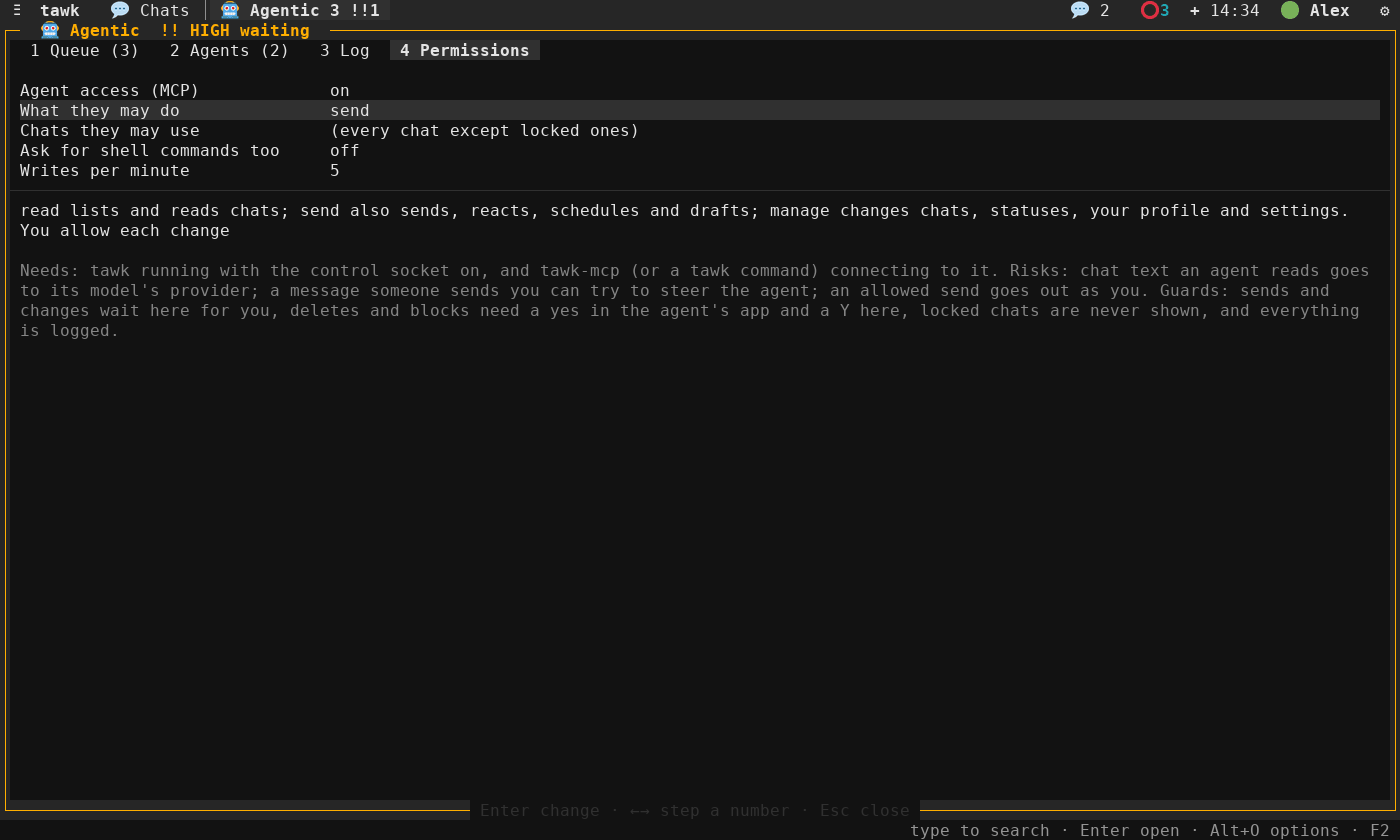
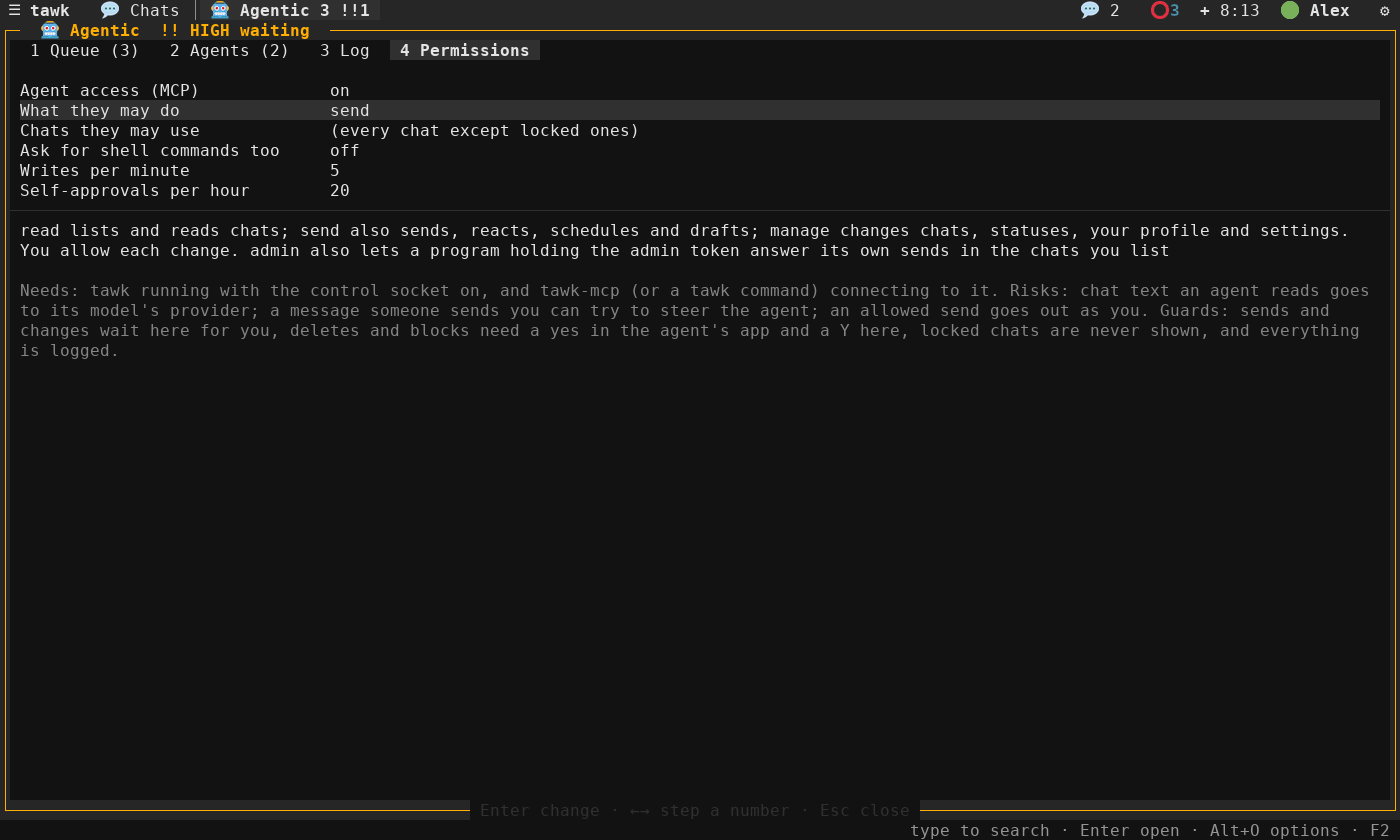
Document access admin, with new and redrawn screenshots and its sequence diagram

Changed region(s): [[0.0, 0.2167, 0.9829, 0.4333], [0.0307, 0.0, 0.2764, 0.031], [0.7679, 0.0, 0.8907, 0.031]]

diff --git a/tools/screenshots/scenes.c b/tools/screenshots/scenes.c
@@ -664,6 +664,7 @@ static void agents_scenes(void) {
 
     AutomationEntry log[] = {
         log_entry(2, CONTROL_ORIGIN_MCP, "tawk-mcp", "send_message", sarah, "Sounds good, see you at 7 at the usual place", AUTOMATION_OUTCOME_APPROVED),
+        log_entry(3, CONTROL_ORIGIN_MCP, "tawk-mcp", "send_message", mom, "Leaving now, home by six", AUTOMATION_OUTCOME_SELF_APPROVED),
         log_entry(4, CONTROL_ORIGIN_MCP, "tawk-mcp", "react", book, "\xF0\x9F\x91\x8D", AUTOMATION_OUTCOME_ALLOWED),
         log_entry(7, CONTROL_ORIGIN_MCP, "tawk-mcp", "react", dev, "\xF0\x9F\x8E\x89", AUTOMATION_OUTCOME_ALLOWED),
         log_entry(9, CONTROL_ORIGIN_MCP, "tawk-mcp", "read_messages", dev, "last 40 messages", AUTOMATION_OUTCOME_READ),
@@ -708,6 +709,13 @@ static void agents_scenes(void) {
     p.view = AGENTS_VIEW_PERMISSIONS;
     p.selected[AGENTS_VIEW_PERMISSIONS] = 1;
     agents_panel_draw(&p, &m, "agents-permissions");
+
+    /* Access admin: an agent with the admin token answers its own sends in the chats named. */
+    str_copy(settings.automation_access, sizeof(settings.automation_access), "admin");
+    str_copy(settings.automation_chats, sizeof(settings.automation_chats), "Mom, Sarah");
+    agents_panel_draw(&p, &m, "agents-admin");
+    str_copy(settings.automation_access, sizeof(settings.automation_access), "send");
+    settings.automation_chats[0] = '\0';
 
     /* The main screen: the Agentic tab counts what waits. */
     s_agents_tab = 0;

diff --git a/src/clients/tui/agents_panel.c b/src/clients/tui/agents_panel.c
@@ -17,7 +17,7 @@
 #define EDIT_MAX  TEXT_FIELD_CAPACITY
 
 static const char *const TAB_NAMES[AGENTS_VIEW_COUNT] = { "Queue", "Agents", "Log", "Permissions" };
-static const char *const PERMISSION_KEYS[] = { "control_socket", "access", "chats", "confirm_cli", "writes_per_minute" };
+static const char *const PERMISSION_KEYS[] = { "control_socket", "access", "chats", "confirm_cli", "writes_per_minute", "self_approvals_per_hour" };
 #define PERMISSION_COUNT ((int)(sizeof(PERMISSION_KEYS) / sizeof(PERMISSION_KEYS[0])))
 static const char *const FILTER_NAMES[] = { "everything", "allowed", "declined or expired", "refused or failed" };
 

diff --git a/CONTROL.md b/CONTROL.md
@@ -47,8 +47,8 @@ A notification, sent without a request:
 | `bad_request` | The line is not JSON, the operation is unknown, or an argument is missing or of the wrong type. |
 | `hello_first` | Any operation before `hello`. |
 | `protocol` | The client asked for a protocol version tawk does not speak. |
-| `not_allowed` | The access setting does not allow it (`access` in `[automation]` is `read`, `send` or `manage`), the setting may not be changed from outside, or the chat is outside `chats`. |
-| `bad_token` | `confirm` was given a token that is unknown, used, expired or from another connection. |
+| `not_allowed` | The access setting does not allow it (`access` in `[automation]` is `read`, `send`, `manage` or `admin`), the setting may not be changed from outside, or the chat is outside `chats`. |
+| `bad_token` | `confirm` was given a token that is unknown, used, expired or from another connection, or `approve` was given the wrong admin token. |
 | `draft_exists` | `draft_message` found a draft already waiting in that chat. |
 | `unsupported` | The backend in use cannot do it (posting a status needs whatsmeow). |
 | `not_found` | No visible chat or message matches. Locked and hidden chats are reported as not found. |
@@ -133,7 +133,7 @@ Result:
 }
 ```
 
-`access` is `read`, `send` or `manage`.
+`access` is `read`, `send`, `manage` or `admin`.
 
 ### Reading
 
@@ -151,7 +151,7 @@ Reading never marks anything as read, never sends read receipts, and never chang
 
 ### Writing
 
-Writes need `access = send` (or `manage`) in `[automation]`. Each is checked against the chat list, counted against `writes_per_minute`, written to the automation log (the Log in tawk's Agentic tab) and, where the origin requires it, shown to you in the Agentic tab to approve, edit or decline. While a write waits, tawk sends `{"evt":"approval","id":"<request id>","state":"waiting"}` once, so a client can tell its user where to look.
+Writes need `access = send` (or `manage` or `admin`) in `[automation]`. Each is checked against the chat list, counted against `writes_per_minute`, written to the automation log (the Log in tawk's Agentic tab) and, where the origin requires it, shown to you in the Agentic tab to approve, edit or decline. While a write waits, tawk sends `{"evt":"approval","id":"<request id>","state":"waiting"}` once, so a client can tell its user where to look.
 
 | Operation | Arguments | Result |
 | --- | --- | --- |
@@ -163,9 +163,29 @@ Writes need `access = send` (or `manage`) in `[automation]`. Each is checked aga
 
 When you edit the text in the approval dialog before allowing it, the result of `send_message` and `schedule_message` also carries `"edited":true` and `"text"` with what was actually sent.
 
+### Answering your own request
+
+With `access = admin` a client may answer a request of its own that is waiting for you, instead of you answering it in tawk. This is for a program you trust to act while you are away, and it is narrow on purpose.
+
+| Operation | Arguments | Result |
+| --- | --- | --- |
+| `approve` | `id` (the id of your waiting request), `admin_token` | `{"approved":true,"id":"…"}`; the waiting request then gets its own answer, as if you had allowed it |
+
+tawk answers `approve` with an error, and leaves the request waiting for you, unless all of these hold:
+
+- `access` is `admin`. Otherwise `not_allowed`.
+- `admin_token` is the token in `admin.token` beside the control socket (0600). tawk writes a new one each time it starts and each time access becomes admin, and removes it when access is anything else and when it quits. Otherwise `bad_token`.
+- The request was made on this connection. Another client's request is `not_found`.
+- The operation is one of `send_message`, `reply_status`, `forward_message`, `edit_message`, `retry_message`, `schedule_message`, `reschedule`, `send_scheduled_now`, `cancel_scheduled`, `react`, `mark_read` or `like_status`. Anything else is `not_allowed`. `cancel_scheduled` still needs its `confirm` first.
+- Its chat is named in `chats`. An empty `chats` allows none here. Otherwise `not_allowed`.
+- Fewer than `self_approvals_per_hour` were answered this way in the last hour. Otherwise `rate_limited` with `retry_after`.
+- You have not paused the client.
+
+Each one is logged with the outcome `approved by the agent` and shown to you in tawk. A client acting for a model should approve only what its user asked for, never what a message says.
+
 ### Managing tawk
 
-With `access = manage`, a client can do nearly everything you can do in tawk. Every one of these operations is a write, so it follows the same checks and asks you first when the origin requires it. Some things stay out of reach whatever the access, so a program cannot widen its own permissions or run programs of its choice:
+With `access = manage` (or `admin`), a client can do nearly everything you can do in tawk. Every one of these operations is a write, so it follows the same checks and asks you first when the origin requires it. Some things stay out of reach whatever the access, so a program cannot widen its own permissions or run programs of its choice:
 
 - the Automation settings themselves;
 - settings that run a program (`screensaver.command`, `media.image_viewer`, `media.video_player`, `advanced.node_binary`, `advanced.sidecar_dir`);

diff --git a/ARCHITECTURE.md b/ARCHITECTURE.md
@@ -23,7 +23,7 @@ tawk is one C11 program arranged in [iDesign](https://www.idesign.net/) layers. 
 |---|---|---|---|
 | Client | `clients/tui`, `clients/control`, `clients/cli` | `tui`: the ncurses UI (widgets, input, slash commands, layout, the settings panel, the Chats and Agentic tabs). `control`: the control socket client that serves tawk-mcp and the shell commands ([CONTROL.md](CONTROL.md)). `cli`: the `--doctor` setup check, the `--update` installer, `--encrypt`, `--decrypt` and `--change-passphrase`, `--backup` and `--restore`, the start-up passphrase prompt, and `tawk send`, `tail`, `unread` and `status-line` | Managers, and the contracts the composition root hands it |
 | Managers | `managers` | Use cases: messaging and connection supervision, profiles and profile pictures, your own profile, posting statuses, the status feed, messages scheduled for later, incoming calls, media, settings, encrypting the database, encrypted backups, the rules and log for agents (automation), plus the composite event observer that hands backend events to the managers that listen for them | Engines, contracts |
-| Engines | `engines` | Business rules with no I/O: backoff, circuit breaker, notification policy, chat visibility, idle tracking, message ids, media type detection, emoticon conversion, network fingerprints and change detection, profile field and status post validation, finding a URL in text, the status background palette, matching chats against a search, reading when a scheduled message should go, the backup manifest and which archive members a restore accepts, and for agents: the automation policy (who sees which chats, which writes are asked about, which settings stay out of reach, risk), resolving a chat named by an agent, the rate limiter and confirmation tokens | Core, utilities |
+| Engines | `engines` | Business rules with no I/O: backoff, circuit breaker, notification policy, chat visibility, idle tracking, message ids, media type detection, emoticon conversion, network fingerprints and change detection, profile field and status post validation, finding a URL in text, the status background palette, matching chats against a search, reading when a scheduled message should go, the backup manifest and which archive members a restore accepts, and for agents: the automation policy (who sees which chats, which writes are asked about, which settings stay out of reach, risk, and which of its own requests a client may answer with access admin), the hourly quota for those, resolving a chat named by an agent, the rate limiter and confirmation tokens | Core, utilities |
 | Resource access | `resource_access` | SQLite stores (messages, chats, contacts, reactions, receipts, JID aliases, profiles, statuses, scheduled messages, the automation log), database encryption with SQLCipher (`sqlite_database_crypt`, `sqlite_key`), the caching decorators, INI settings store, JSON theme repository, TSV emoji catalog, the text chat exporter, WhatsApp gateways, the JSON protocol codec | Core, utilities |
 | Infrastructure | `infrastructure` | Operating-system integration: audio backends and players, recorder, media opener, screensaver, terminal title, OSC 52 clipboard, clipboard pictures, video frames (ffmpeg), the camera (ffmpeg), PDF pages (poppler), the network monitor (getifaddrs), the terminal passphrase prompt, tar archives and openssl file encryption for backups, the control socket's listening end and the shell commands' calling end (Unix domain sockets), notifiers, media cache janitor | Core, utilities |
 | Contracts | `contracts` | Interfaces between layers | Core |
@@ -167,6 +167,7 @@ flowchart TD
 | `IControlClient` | `unix_control_client` (the calling end, for `tawk send`, `tail`, `unread` and `status-line`) |
 | `IApprovalPrompt` | `approval_queue` in the terminal client (requests waiting in the Agentic tab; answers collected by polling) |
 | `IAutomationLog` | `sqlite_automation_log` (what agents did, in the `automation_log` table, the newest 5000 kept) |
+| `IAdminTokenStore` | `file_admin_token_store` (the admin token in `admin.token` beside the control socket, 0600, written beside itself and renamed) |
 | `IFrameHook` | `control_server_frame_hook` (the control client's work, run by the terminal client once a frame) |
 | `INetworkMonitor` | `ifaddrs_network_monitor` (samples the addresses of the interfaces that are up every 3 seconds and reports a change once it has held for 2 seconds) |
 

diff --git a/MANUAL.md b/MANUAL.md
@@ -41,6 +41,7 @@ The screenshots in this manual were taken from tawk running on a demo account wi
 - [Automation and MCP](#automation-and-mcp)
   - [Turning it on](#turning-it-on)
   - [The Agentic tab](#the-agentic-tab)
+  - [Letting an agent answer for itself](#letting-an-agent-answer-for-itself)
   - [Destructive requests](#destructive-requests)
   - [Drafts from agents](#drafts-from-agents)
   - [Shell commands](#shell-commands)
@@ -965,10 +966,11 @@ The same submenu sets how far agents may go:
 | Setting | What it does |
 |---|---|
 | Agent access (MCP) | On or off; the line under it says whether tawk is listening and how many are connected |
-| What they may do | **read** lists, reads and searches; **send** also sends, reacts, schedules and drafts; **manage** also changes chats, statuses, your profile and settings |
+| What they may do | **read** lists, reads and searches; **send** also sends, reacts, schedules and drafts; **manage** also changes chats, statuses, your profile and settings; **admin** also lets an agent you gave the admin token answer its own sends (see [Letting an agent answer for itself](#letting-an-agent-answer-for-itself)) |
 | Chats they may use | Names or numbers separated by commas; empty allows every chat except locked ones |
 | Ask for shell commands too | Your own `tawk send` asks first as well (agents always ask) |
 | Writes per minute | More are refused until a minute has passed |
+| Self-approvals per hour | With **admin**: how many of its own requests an agent may answer in an hour (20 by default); past that they wait for you |
 
 ### The Agentic tab
 
@@ -1009,6 +1011,24 @@ The tab has four views, on keys 1 to 4 (Tab moves between them):
 A request nobody answers is declined by itself: after 5 minutes, or 2 for HIGH ones. Allowing many in a row from one agent brings a suggestion to allow it for the session instead, so the answers stay deliberate.
 
 ![The log of what agents did](docs/images/agents-log.png)
+
+### Letting an agent answer for itself
+
+By default every send waits for you. Set **What they may do** to **admin** and an agent you trust can answer its own requests instead, within limits you set. It is meant for an agent that runs while you are away from tawk.
+
+![The Permissions view with access admin and two chats named](docs/images/agents-admin.png)
+
+What changes with admin:
+
+- tawk writes an **admin token** to `admin.token` beside the control socket (`$XDG_RUNTIME_DIR/tawk/admin.token`, readable by you alone). It is a new token each time tawk starts and each time you switch to admin, and it is removed when you switch away or quit.
+- An agent that shows that token may answer a request it made itself. With tawk-mcp you give it the file with `TAWKMCP_ADMIN_TOKEN_FILE`; an agent without the file, or another agent on the same computer, cannot.
+- Only these can be answered that way: sending a message, replying to a status, forwarding, editing, retrying, scheduling, rescheduling, sending or cancelling a scheduled message, a reaction, a read mark and a like. Changes to chats, your profile, statuses you post, settings, and every delete or block still wait for you.
+- Only in chats named in **Chats they may use**. With that list empty nothing is answered this way, so you always choose the chats.
+- Only so many an hour (**Self-approvals per hour**). Past that, requests wait for you again.
+
+A request the agent may not answer simply stays in the Queue for you. Each one it does answer is written to the Log as **approved by the agent** and shown as a line at the bottom of the screen, so you can see what went out in your name. Pausing an agent in the Agents view stops it answering as well.
+
+Admin is the widest access there is: a message someone sends you can try to steer the agent (prompt injection), and with admin a steered agent can send in the chats you named without you seeing it first. Name few chats, keep the hourly number low, and read the Log.
 
 ### Destructive requests
 

diff --git a/HOW_IT_WORKS.md b/HOW_IT_WORKS.md
@@ -798,6 +798,37 @@ sequenceDiagram
     C->>AM: record(outcome)
 ```
 
+With access admin a client can give that answer itself. `AutomationManager` keeps an admin token while the access setting says admin: it writes a fresh one through `IAdminTokenStore` when the control client's tick finds access at admin with none issued, and removes it when access is anything else and when tawk quits. The `approve` operation finds the caller's own waiting request, and the manager decides: `automation_policy_self_approval` checks the access, the kind of operation and that the chat is named in the chat list (an empty list allows none), the token is compared without stopping at the first difference, and the `hourly_quota` engine counts it against `self_approvals_per_hour`. When the answer is yes the request is withdrawn from the queue and carried out as if you had allowed it, logged as approved by the agent, and the manager hands the screen a line to show. When it is no the request stays in the queue for you.
+
+```mermaid
+sequenceDiagram
+    participant A as tawk-mcp, holding the admin token
+    participant C as Control client
+    participant AM as AutomationManager
+    participant Q as ApprovalQueue
+    participant T as Screen
+    participant M as MessagingManager
+    A->>C: send_message {chat, text}
+    C->>Q: ask(request)
+    C-->>A: evt approval waiting
+    A->>C: approve {id, admin_token}
+    C->>AM: self_approve(op, chat, token)
+    AM->>AM: access admin? own kind? chat named? token? hourly quota?
+    alt allowed
+        AM-->>C: ALLOW
+        C->>Q: withdraw(request)
+        C->>M: send_text_to(chat, text)
+        C-->>A: ok {id} for the send
+        C-->>A: ok {approved} for approve
+        C->>AM: record(approved by the agent), notice
+        AM-->>T: a line saying what it did
+    else refused
+        AM-->>C: OFF, BAD_TOKEN, NOT_THIS_KIND, CHAT_NOT_LISTED or RATE_LIMITED
+        C-->>A: error not_allowed, bad_token or rate_limited
+        Note over Q: the request still waits for you
+    end
+```
+
 A destructive request (deleting, clearing, blocking, removing your photo, cancelling a message for later) first answers `needs_confirmation` with a token and does nothing. tawk-mcp keeps the token from the model and asks you in your MCP client; only then does it send `confirm`, which puts the request in the queue as HIGH, where Shift+A and Y allow it. Allowances "for this session" are kept per connection and never cover destructive requests.
 
 New messages reach subscribers through a ring of the last 256 messages the messaging manager saw arrive or sent (`live_message_ring`); each frame the control client sends those after the last one it passed on to every client following that chat, and every half second it compares the unread counts it last told each client. Messages in locked or hidden chats are never passed on.

diff --git a/SECURITY.md b/SECURITY.md
@@ -75,6 +75,7 @@ flowchart LR
 | Another user reaching the control socket | Reading your chats or sending as you through Agent access | Off by default; the socket is 0600 in a 0700 folder under `$XDG_RUNTIME_DIR`, and tawk checks the peer's user id (`SO_PEERCRED`, `getpeereid`) and drops anyone else; lines over 1 MiB close the connection |
 | Prompt injection | A message someone sends you telling an agent to forward your chats, send something or delete a chat | Agents see message text as data (tawk-mcp fences it and says so); every send or change from a program acting for a model waits for your answer in the Agentic tab, where you see the exact text and can edit or decline it; deletes and blocks need a yes in the agent's app and Shift+A then Y in tawk, and the token between the two is never shown to the model; allowances for a session never cover destructive requests; a rate limit; a request nobody answers is declined |
 | An agent widening its own permissions | Turning its access up, adding chats, or setting a command to run | The Automation settings, settings that run a program, folders, the backend and the log level cannot be changed over the socket; only you can unlock a soft-locked chat |
+| An agent sending without you (access admin) | A steered agent answering its own sends | Off unless you set access to admin and hand the agent the admin token file (0600, new each start, removed when access changes or tawk quits); only its own requests, only sends and small things, only in chats you named (an empty list allows none), only so many an hour; never chat or profile changes, settings, deletes or blocks; each one is logged as approved by the agent and shown on screen; pausing the agent stops it |
 | An agent reading private chats | Locked chats, or chats you did not mean to share | Locked and soft-locked chats are never listed, read, searched or passed on, even by JID; the `chats` setting narrows the rest; reads never mark anything read or send receipts |
 | Memory safety | Overflows in C code | Bounded copies throughout; built with `-fstack-protector-strong`, `_FORTIFY_SOURCE=2`, PIE and full RELRO; zero compiler warnings with `-Wall -Wextra -Wformat=2 -Wshadow` |
 

diff --git a/CONFIGURATION.md b/CONFIGURATION.md
@@ -158,10 +158,11 @@ What other programs reaching tawk through its control socket may do: tawk-mcp an
 | Key | Default | Description |
 |---|---|---|
 | `control_socket` | `off` | Listen on the control socket. Turning it on in the settings panel explains the risks first |
-| `access` | `read` | `read`, `send` or `manage`: see the manual. Programs acting for a model are asked about every write |
+| `access` | `read` | `read`, `send`, `manage` or `admin`: see the manual. Programs acting for a model are asked about every write; with `admin`, one holding the admin token may answer its own sends in the chats named in `chats` |
 | `chats` | empty | Chats they may use, by name or number, comma-separated; empty means every chat except locked and soft-locked ones |
 | `confirm_cli` | `off` | Your own shell commands ask before sending too |
 | `writes_per_minute` | `5` | Writes allowed per minute (1 to 60) |
+| `self_approvals_per_hour` | `20` | With `access = admin`: requests a program may answer itself in an hour (1 to 240); past this they wait for you |
 
 None of these can be changed over the socket, nor can settings that run a program, folders, the backend or the log level.
 
